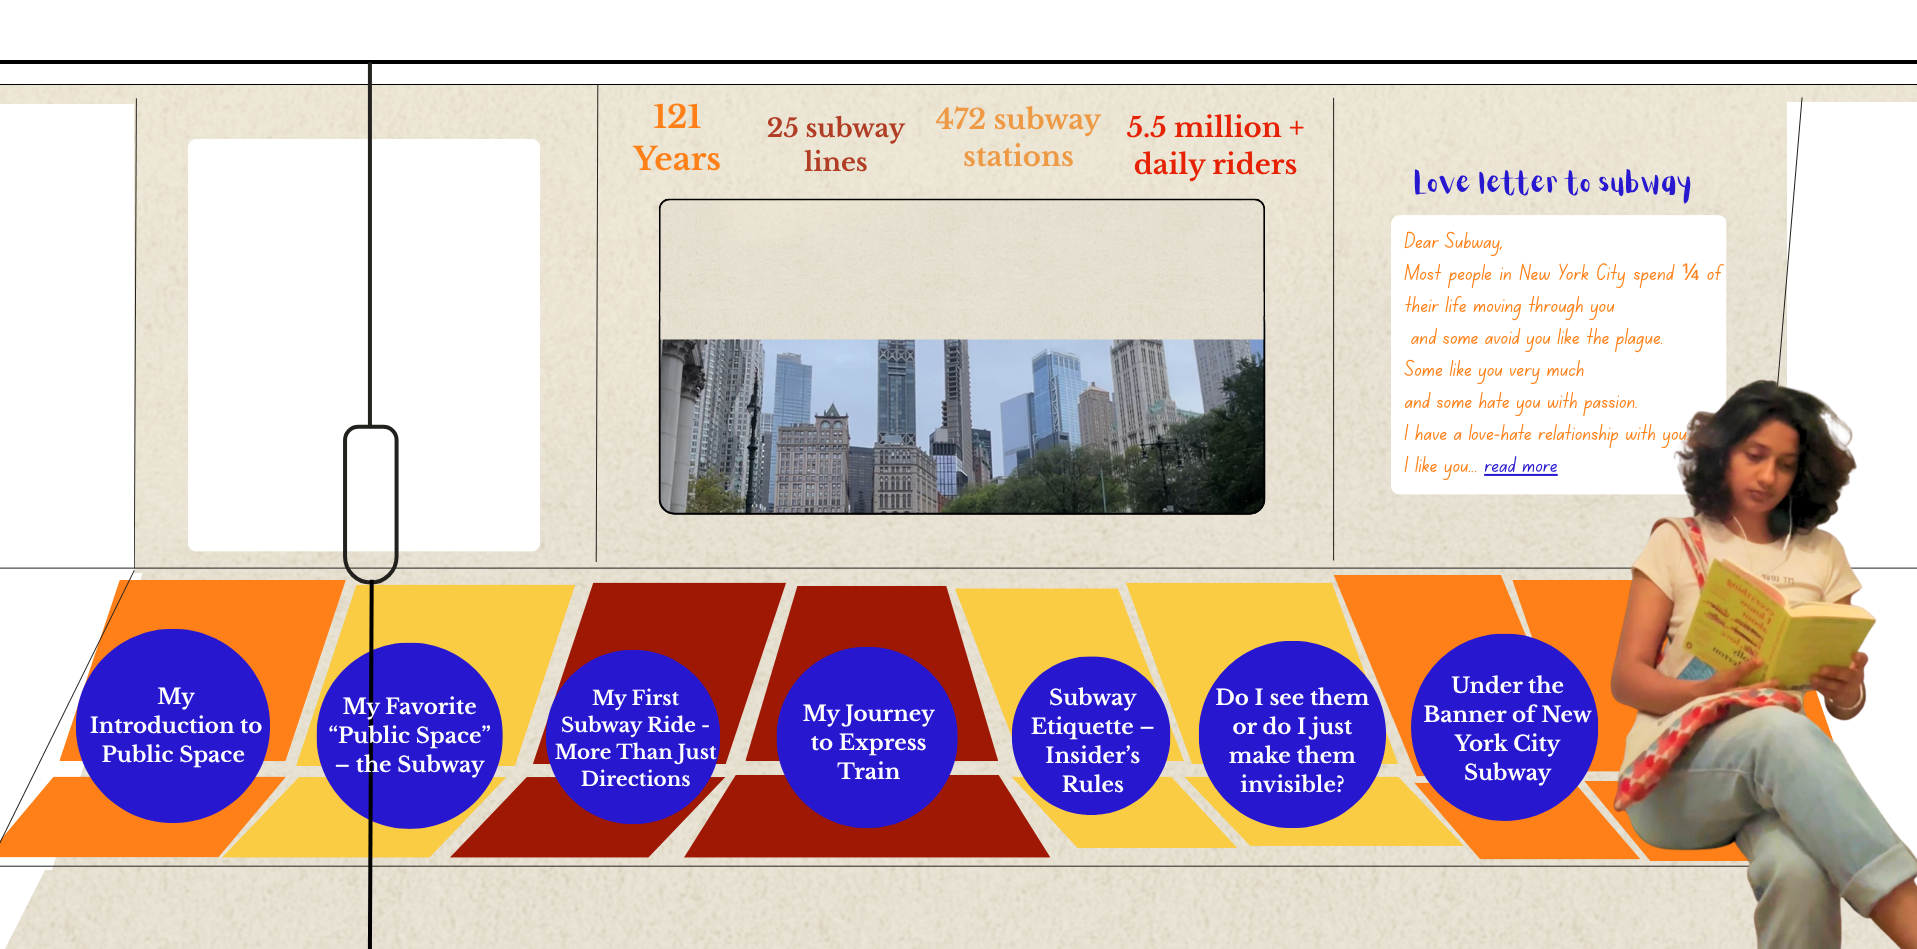
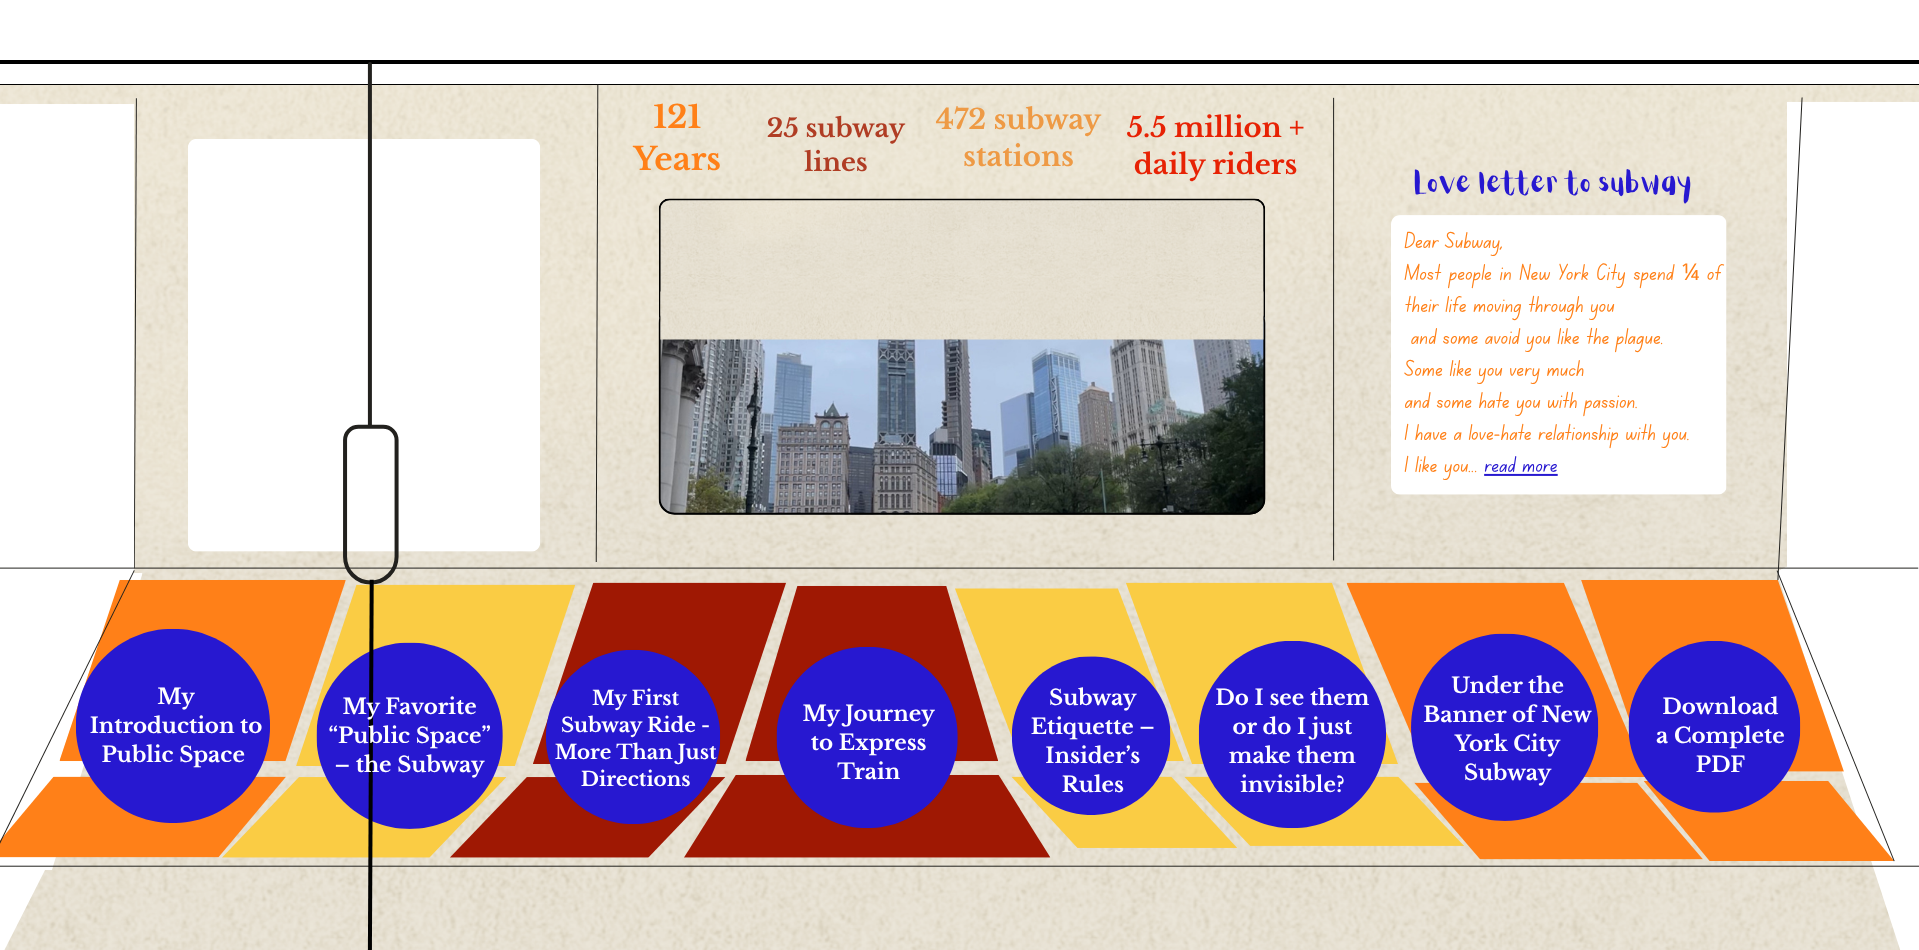
smol changes

diff --git a/Subway/stories.js b/Subway/stories.js
@@ -19,8 +19,8 @@ window.STORIES = [
     id: 2,
     title: "My Favorite “Public Space” – the Subway",
     stationName: "Brooklyn Bridge–City Hall Station",
-    lat: 40.7077,
-    lng: -74.0028,
+    lat: 40.7128, 
+    lng: -74.0049,
     text: "After studying public spaces,  some in the South Bronx as part of our group project with the Department of Transportation last semester, and writing a 32-page comparative analysis on public spaces in NYC and Kathmandu, I would like to call myself sort of an expert...",
     readMoreLink: "./essays/fav.html",
     date: "Sept 19, 2025 • 9:36 AM",

diff --git a/Subway/writing.css b/Subway/writing.css
@@ -16,7 +16,7 @@
     align-items: center;
     gap: 18px;
     width: max-content;
-    animation: subwayAds 35s linear infinite;
+    animation: subwayAds 40s linear infinite;
   }
   
   .ad {
@@ -218,12 +218,10 @@
   }
 
   .seat8 {
-    position: fixed;
-    bottom: 1%;
-    left: 88.5%;
-    padding: 10px 20px;
-    color: white;
-    background: rgba(0, 42, 255, 0.85);
+    bottom: 13%;
+    left: 84.5%;
+    padding: 72px 72px;
+    border-radius: 100px;
   }
 
 

diff --git a/Subway/writing.html b/Subway/writing.html
@@ -132,7 +132,6 @@
         <a href="./essays/under.html" class="hotspot seat seat7">
         </a>
         <a href="https://drive.google.com/file/d/1z268y0PqN7ALpCx9JBO3IRmOvtnUYvNv/view?usp=sharing" class="hotspot seat seat8" target="_blank">
-          Download a PDF
         </a>
       </div>
   </div>
